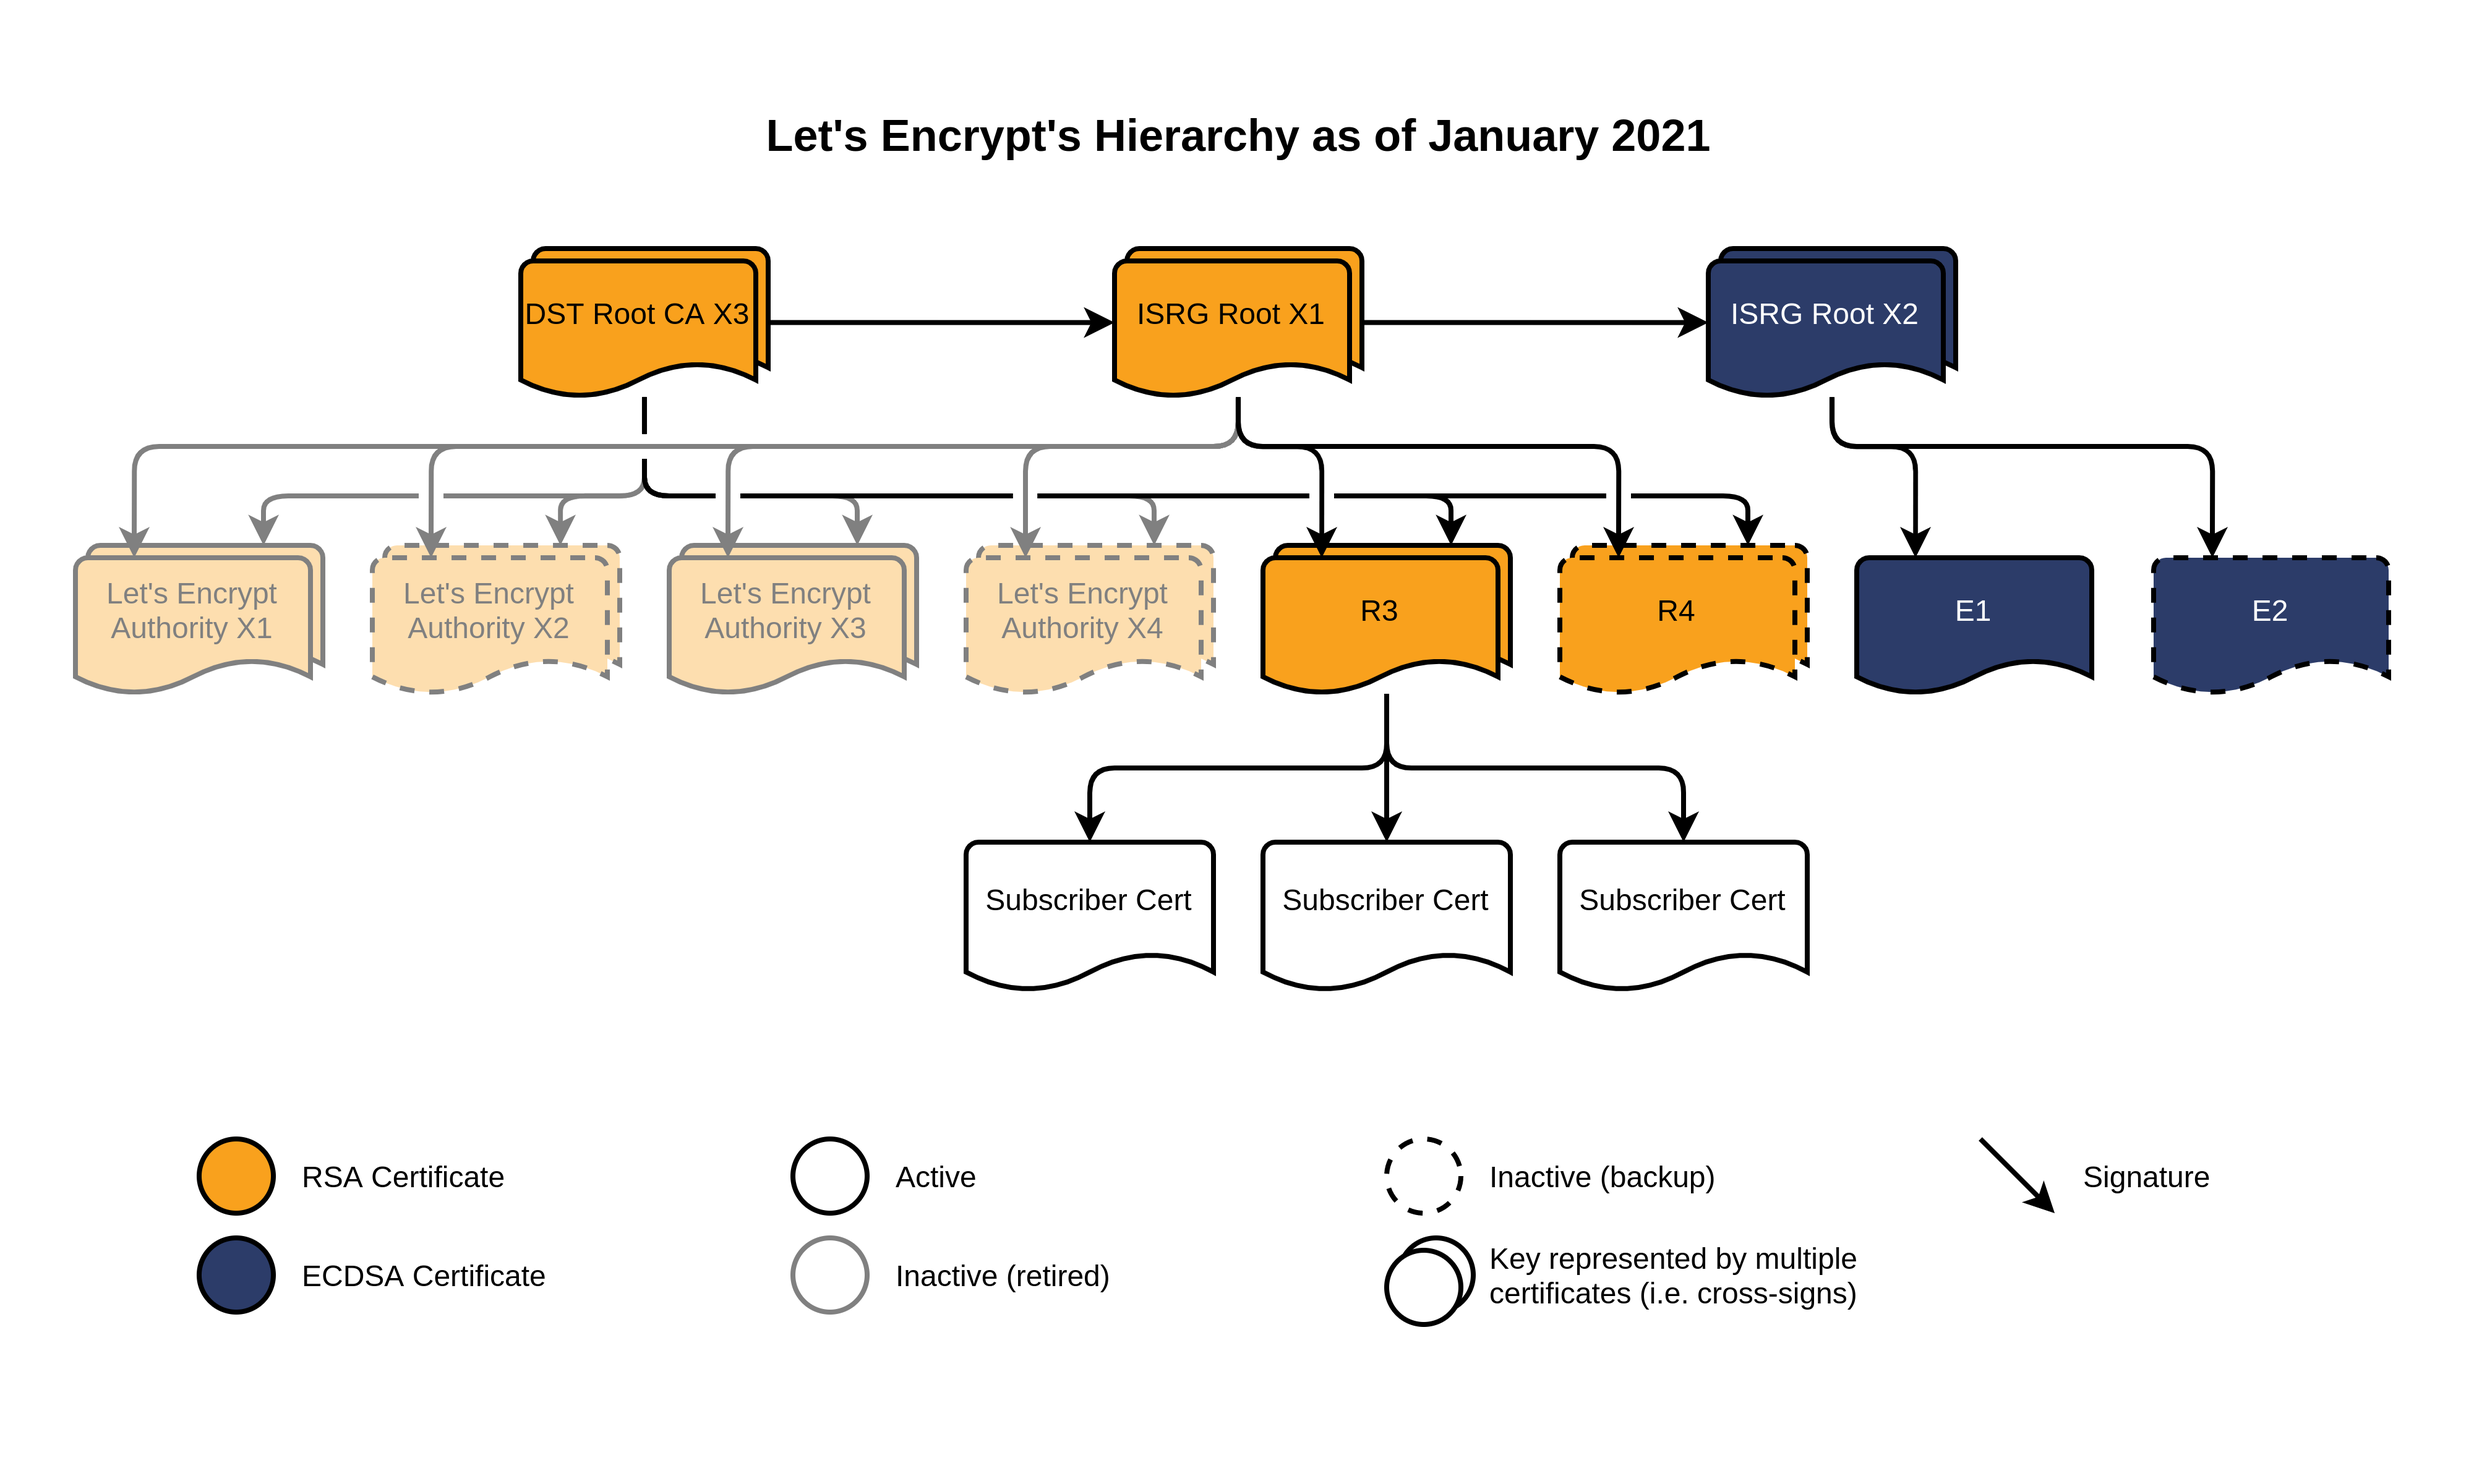
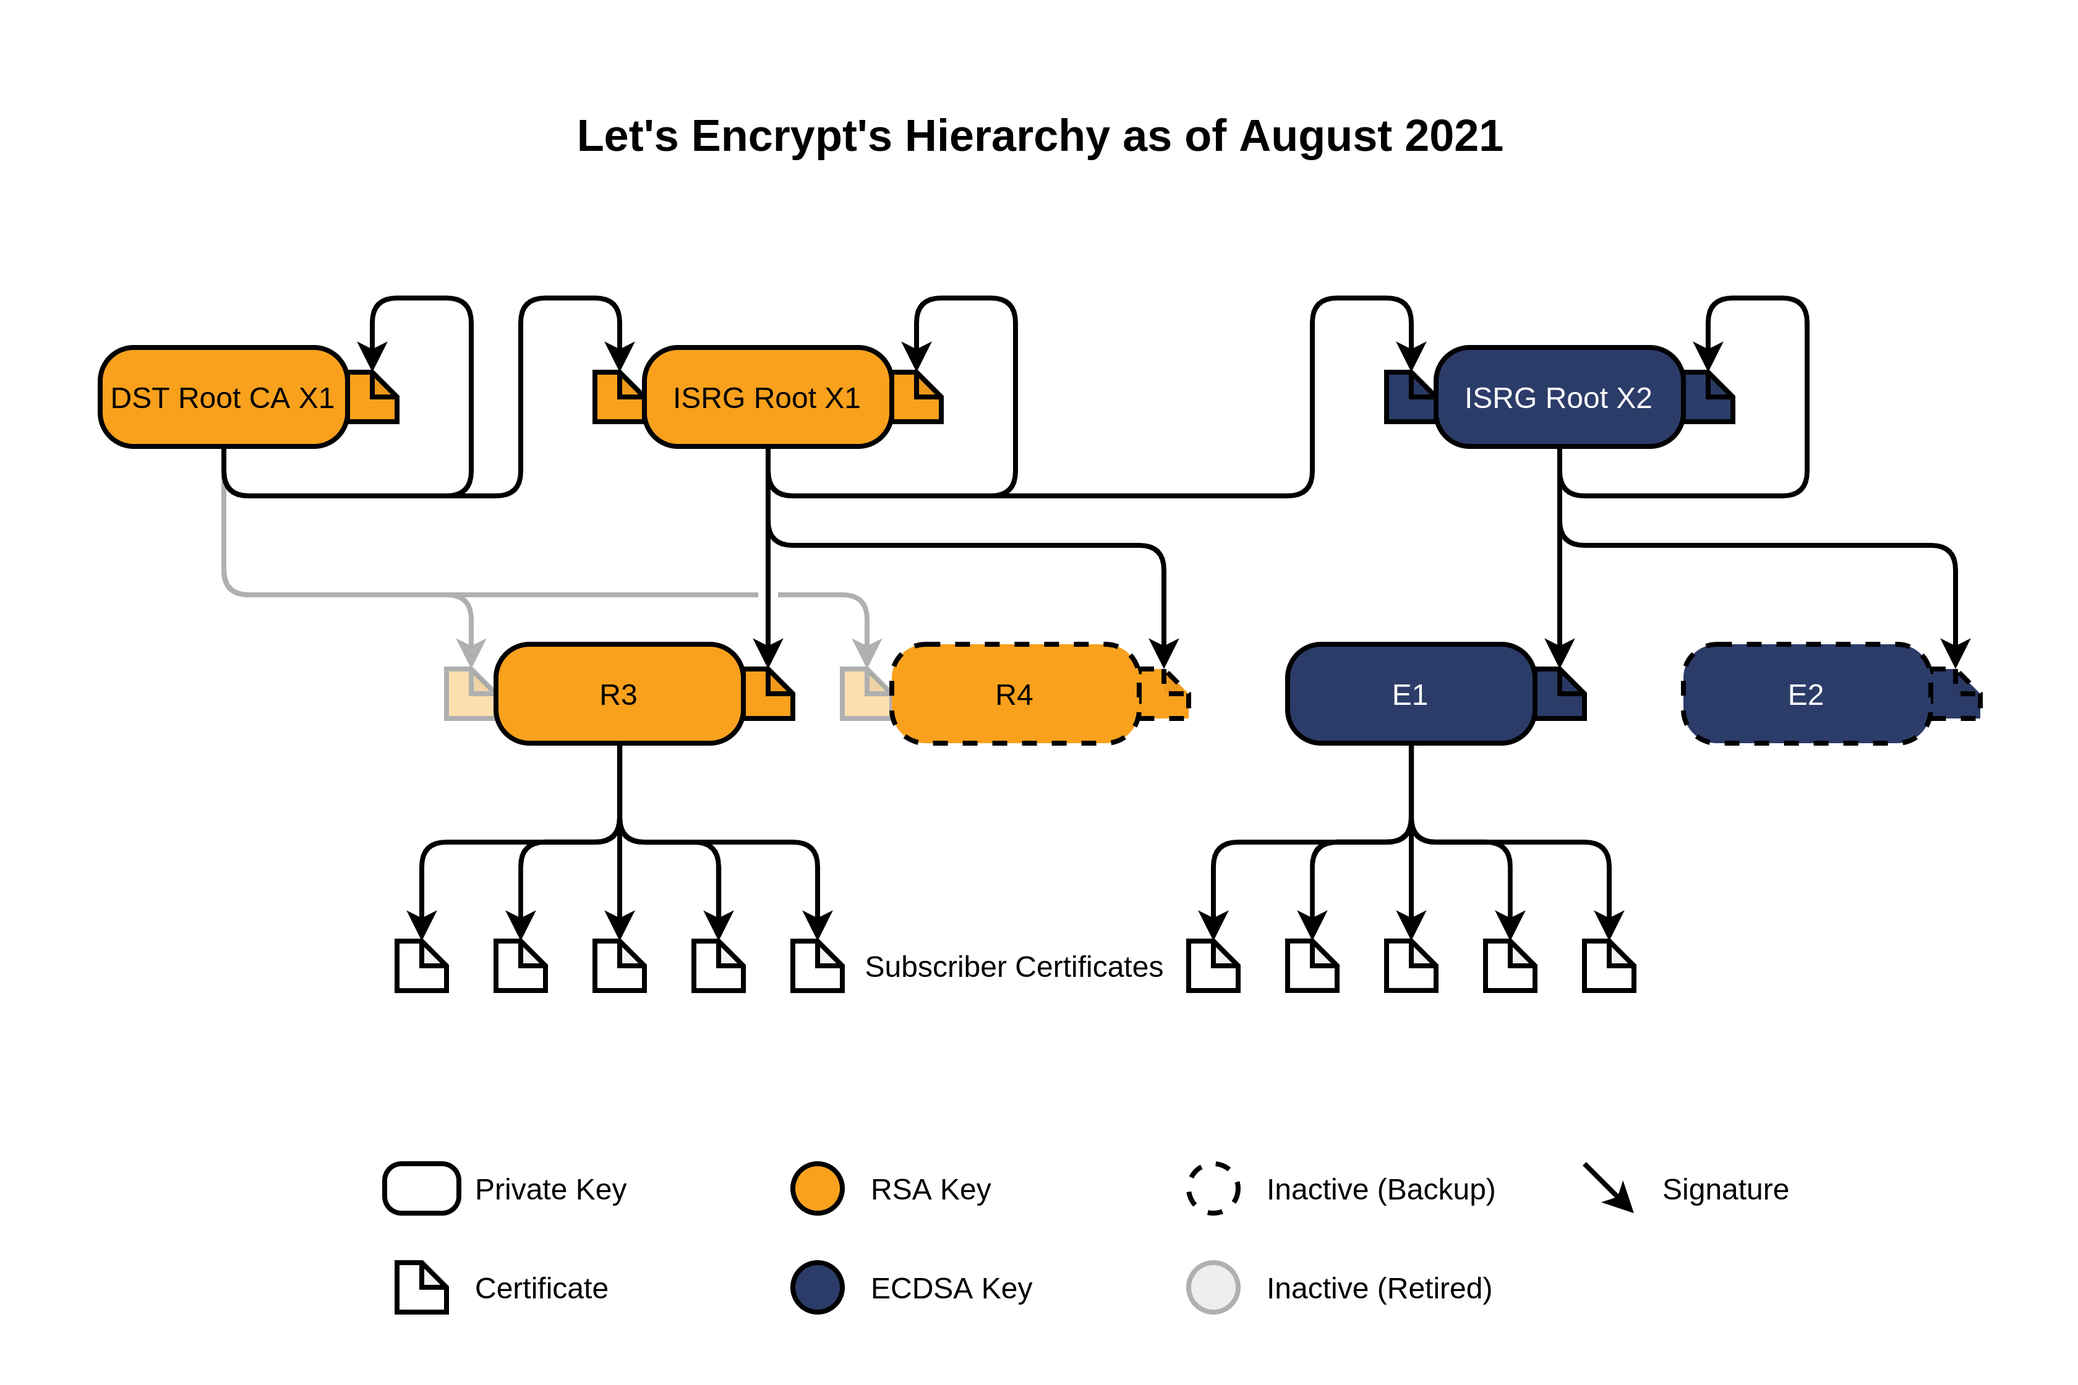
Update hierarchy image and E1 description (#1279)
Update the hierarchy image to distinguish between private
keys and certificates, and to remove the block of old (X1-X4)
certificates that are no longer relevant. Update the text to be
clearer about the status of E1, and to mark our intermediate
cross-signs from DST Root CA X3 as retired as well.

Fixes #1259

diff --git a/content/en/certificates.md b/content/en/certificates.md
@@ -3,7 +3,7 @@ title: Chain of Trust
 linkTitle: Chain of Trust (Root and Intermediate Certificates)
 slug: certificates
 top_graphic: 5
-lastmod: 2021-04-29
+lastmod: 2021-08-10
 show_lastmod: 1
 ---
 
@@ -30,7 +30,6 @@ We've set up websites to test certificates chaining to our active roots.
   * [Valid](https://valid-isrgrootx1.letsencrypt.org/)
   * [Revoked](https://revoked-isrgrootx1.letsencrypt.org/)
   * [Expired](https://expired-isrgrootx1.letsencrypt.org/)
-
 * ISRG Root X2
   * [Valid](https://valid-isrgrootx2.letsencrypt.org/)
   * [Revoked](https://revoked-isrgrootx2.letsencrypt.org/)
@@ -39,7 +38,7 @@ We've set up websites to test certificates chaining to our active roots.
 # Intermediate Certificates
 
 Under normal circumstances, certificates issued by Let's Encrypt will come from "R3", an RSA intermediate.
-We have also issued a new ECDSA intermediate ("E1") which is available for use by allow-listed accounts. Read about how we are siging ECDSA certificates and how to get your account allow-listed on the [community forums](https://community.letsencrypt.org/t/ecdsa-availability-in-production-environment/150679).
+Currently, issuance from "E1", an ECDSA intermediate, is possible only for ECDSA subscriber keys for [allowlisted accounts](https://community.letsencrypt.org/t/ecdsa-availability-in-production-environment/150679). In the future, issuance from "E1" will be available for everyone.
 
 Our other intermediates ("R4" and "E2") are reserved for disaster recovery and will only be used should we lose the ability to issue with our primary intermediates.
 We do not use the X1, X2, X3, and X4 intermediates anymore.
@@ -49,14 +48,14 @@ IdenTrust has cross-signed our RSA intermediates for additional compatibility.
 * Active
   * Let's Encrypt R3 (`RSA 2048, O = Let's Encrypt, CN = R3`)
     * [Signed by ISRG Root X1](https://crt.sh/?id=3334561879): [der](/certs/lets-encrypt-r3.der), [pem](/certs/lets-encrypt-r3.pem), [txt](/certs/lets-encrypt-r3.txt)
-    * [Cross-signed by IdenTrust](https://crt.sh/?id=3479778542): [der](/certs/lets-encrypt-r3-cross-signed.der), [pem](/certs/lets-encrypt-r3-cross-signed.pem), [txt](/certs/lets-encrypt-r3-cross-signed.txt)
-* Active
+    * [Cross-signed by IdenTrust](https://crt.sh/?id=3479778542): [der](/certs/lets-encrypt-r3-cross-signed.der), [pem](/certs/lets-encrypt-r3-cross-signed.pem), [txt](/certs/lets-encrypt-r3-cross-signed.txt) (Retired)
+* Active, limited availability
   * Let's Encrypt E1 (`ECDSA P-384, O = Let's Encrypt, CN = E1`)
     * [Signed by ISRG Root X2](https://crt.sh/?id=3334671964): [der](/certs/lets-encrypt-e1.der), [pem](/certs/lets-encrypt-e1.pem), [txt](/certs/lets-encrypt-e1.txt)
 * Backup
   * Let's Encrypt R4 (`RSA 2048, O = Let's Encrypt, CN = R4`)
     * [Signed by ISRG Root X1](https://crt.sh/?id=3334561877): [der](/certs/lets-encrypt-r4.der), [pem](/certs/lets-encrypt-r4.pem), [txt](/certs/lets-encrypt-r4.txt)
-    * [Cross-signed by IdenTrust](https://crt.sh/?id=3479778543): [der](/certs/lets-encrypt-r4-cross-signed.der), [pem](/certs/lets-encrypt-r4-cross-signed.pem), [txt](/certs/lets-encrypt-r4-cross-signed.txt)
+    * [Cross-signed by IdenTrust](https://crt.sh/?id=3479778543): [der](/certs/lets-encrypt-r4-cross-signed.der), [pem](/certs/lets-encrypt-r4-cross-signed.pem), [txt](/certs/lets-encrypt-r4-cross-signed.txt) (Retired)
   * Let's Encrypt E2 (`ECDSA P-384, O = Let's Encrypt, CN = E2`)
     * [Signed by ISRG Root X2](https://crt.sh/?id=3334671963): [der](/certs/lets-encrypt-e2.der), [pem](/certs/lets-encrypt-e2.pem), [txt](/certs/lets-encrypt-e2.txt)
 * Retired
